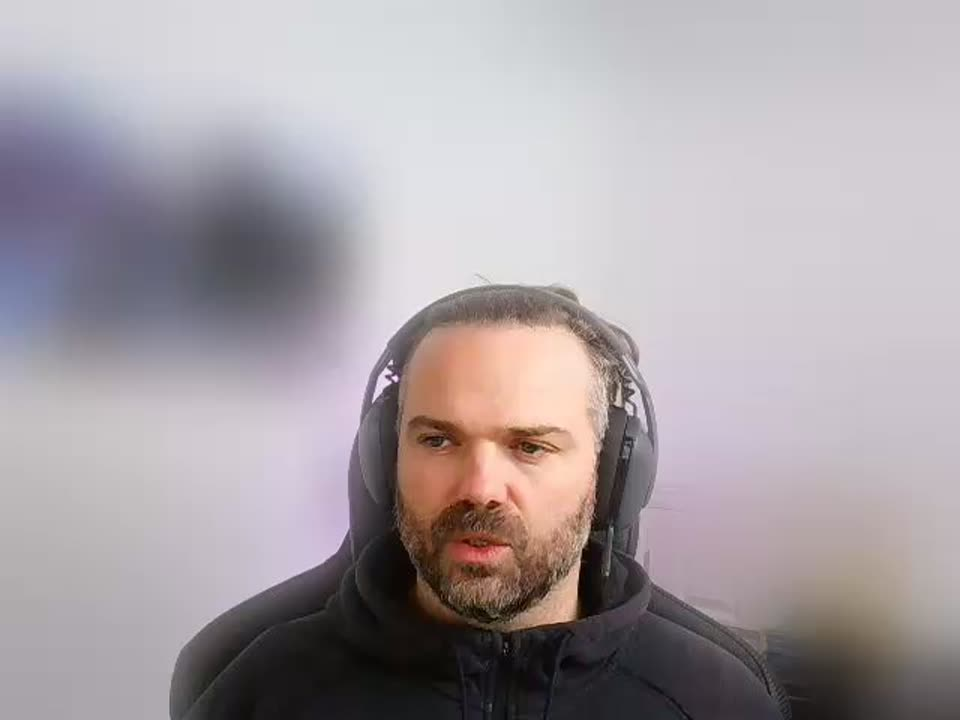
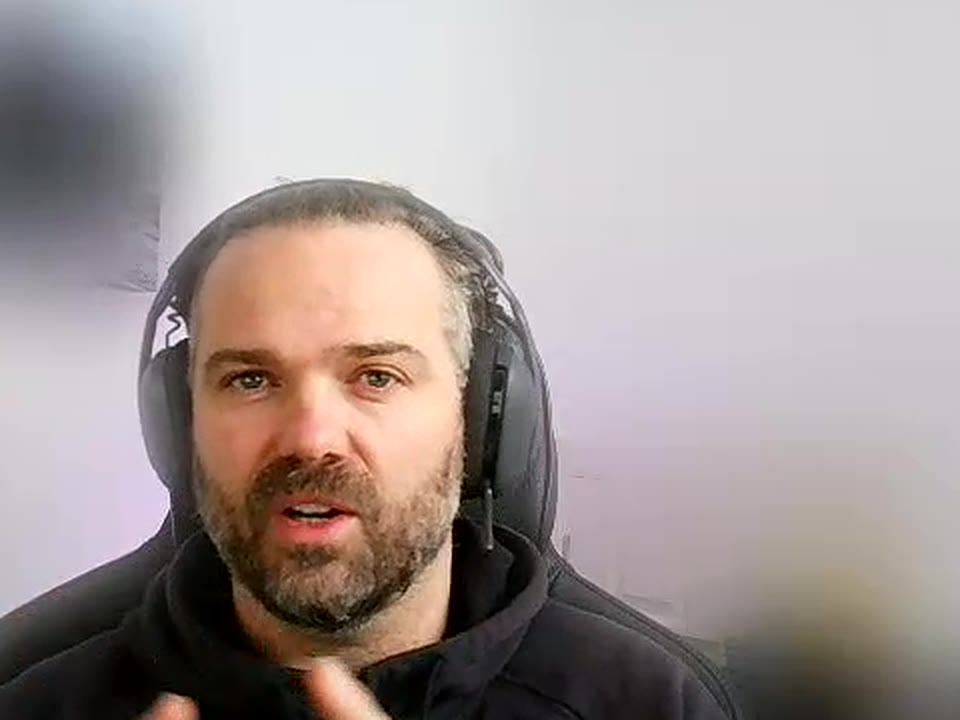
Upgrade Jon's video thumbnail and caption
- New poster frame (eye contact, face centred left) with a navy grade,
  gold 'Client story' tag, 'Watch 2 min' pill and a gentle gold pulse on
  the play button, which now sits beside his face instead of on it
- Caption: Jon, owns a car garage CRM automation business (owner's wording)

Claude-Session: https://claude.ai/code/session_01SZgYQPTspgjgdJg6iy336x

diff --git a/site/src/components/home/reviews.tsx b/site/src/components/home/reviews.tsx
@@ -12,7 +12,7 @@ import { REVIEWS, TESTIMONIAL_VIDEO, UPWORK_URL, type Review } from "@/lib/clien
    ─────────────────────────────────────────── */
 function VideoTestimonial() {
   const [playing, setPlaying] = useState(false);
-  const { youtubeId, poster, name, detail } = TESTIMONIAL_VIDEO;
+  const { youtubeId, poster, name, detail, duration } = TESTIMONIAL_VIDEO;
   return (
     <figure className="bg-white rounded-xl p-3 md:p-4 ring-1 ring-champagne/40 shadow-[0_24px_60px_rgba(16,24,39,0.10)]">
       <div className="relative aspect-[4/3] overflow-hidden rounded-lg bg-midnight-deep">
@@ -37,17 +37,45 @@ function VideoTestimonial() {
               sizes="(min-width: 1024px) 560px, 100vw"
               className="object-cover transition-transform duration-700 group-hover:scale-[1.03]"
             />
+            {/* brand grade: deep navy rising from the bottom and in from the right */}
             <span
               aria-hidden="true"
-              className="absolute inset-0 bg-midnight-deep/30 transition-colors duration-300 group-hover:bg-midnight-deep/20"
+              className="absolute inset-0"
+              style={{
+                background:
+                  "linear-gradient(to top, rgba(16,24,39,0.82) 0%, rgba(16,24,39,0.12) 46%, transparent 68%), linear-gradient(to left, rgba(16,24,39,0.62) 0%, transparent 58%)",
+              }}
             />
             <span
               aria-hidden="true"
-              className="absolute left-1/2 top-1/2 flex h-20 w-20 -translate-x-1/2 -translate-y-1/2 items-center justify-center rounded-full bg-champagne text-midnight shadow-[0_10px_40px_rgba(0,0,0,0.35)] ring-4 ring-ivory/60 transition-transform duration-300 group-hover:scale-110"
+              className="absolute inset-0 ring-1 ring-inset ring-champagne/40"
+            />
+            <span
+              aria-hidden="true"
+              className="absolute left-4 top-4 inline-flex items-center gap-2 rounded-full bg-midnight-deep/80 px-3 py-1.5 text-[10px] font-medium uppercase tracking-[0.18em] text-champagne ring-1 ring-champagne/40 backdrop-blur-sm"
             >
-              <svg viewBox="0 0 24 24" className="ml-1 h-7 w-7" fill="currentColor">
-                <path d="M8 5.5v13l11-6.5z" />
-              </svg>
+              <span className="h-1.5 w-1.5 rotate-45 bg-champagne" />
+              Client story
+            </span>
+            {/* play button sits in the empty space beside his face */}
+            <span
+              aria-hidden="true"
+              className="absolute right-[15%] top-1/2 flex h-20 w-20 -translate-y-1/2 items-center justify-center md:h-24 md:w-24"
+            >
+              <span className="absolute inset-0 rounded-full bg-champagne/50 animate-ping motion-reduce:animate-none [animation-duration:2.8s]" />
+              <span className="relative flex h-full w-full items-center justify-center rounded-full bg-champagne text-midnight shadow-[0_10px_40px_rgba(0,0,0,0.4)] ring-4 ring-ivory/60 transition-transform duration-300 group-hover:scale-110">
+                <svg viewBox="0 0 24 24" className="ml-1 h-8 w-8" fill="currentColor">
+                  <path d="M8 5.5v13l11-6.5z" />
+                </svg>
+              </span>
+            </span>
+            <span
+              aria-hidden="true"
+              className="absolute bottom-4 right-4 inline-flex items-center gap-2 rounded-full bg-midnight-deep/80 px-3.5 py-1.5 text-[12px] text-ivory ring-1 ring-champagne/40 backdrop-blur-sm"
+            >
+              Watch
+              <span className="text-champagne">·</span>
+              {duration}
             </span>
           </button>
         )}

diff --git a/site/src/lib/clients.ts b/site/src/lib/clients.ts
@@ -119,7 +119,9 @@ export const TESTIMONIAL_VIDEO = {
   youtubeId: "nbeFW7Sw-hw",
   poster: "/testimonials/jon-poster.jpg",
   name: "Jon",
-  detail: "Client testimonial",
+  // Owner's description (4 Nov 2026). Company name still to come.
+  detail: "Owns a car garage CRM automation business",
+  duration: "2 min",
 };
 
 /* ─────────────── Written reviews ─────────────── */
